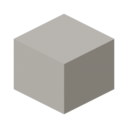
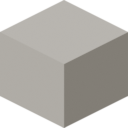
Fix ortho_scale to exactly fill 128px tile
Use math.sqrt(2) instead of approximation 1.43/1.8.
Rule: 1 tile = 1×1 BU footprint, ortho_scale = tile_side × √2

Changed region(s): [[0.0, 0.0, 1.0, 1.0]]

diff --git a/try-out/blender/isometric_box.py b/try-out/blender/isometric_box.py
@@ -50,7 +50,7 @@ cube.data.materials.append(mat)
 bpy.ops.object.camera_add(location=(0, 0, 0))
 cam = bpy.context.active_object
 cam.data.type = 'ORTHO'
-cam.data.ortho_scale = 2.5
+cam.data.ortho_scale = math.sqrt(2)  # 1タイル(1×1 BU)がぴったり128pxに: tile_side × √2
 cam.rotation_euler = (math.radians(60), 0, math.radians(45))
 
 # Compute camera position: place it so it looks at the object center

diff --git a/try-out/station_test/render_station.py b/try-out/station_test/render_station.py
@@ -32,7 +32,7 @@ cube.data.materials.append(mat)
 bpy.ops.object.camera_add(location=(0, 0, 0))
 cam = bpy.context.active_object
 cam.data.type = 'ORTHO'
-cam.data.ortho_scale = 1.8   # 128x128に合わせたスケール
+cam.data.ortho_scale = math.sqrt(2)  # 1タイル(1×1 BU)がぴったり128pxに: tile_side × √2
 cam.rotation_euler = (math.radians(60), 0, math.radians(45))
 
 bpy.context.view_layer.update()